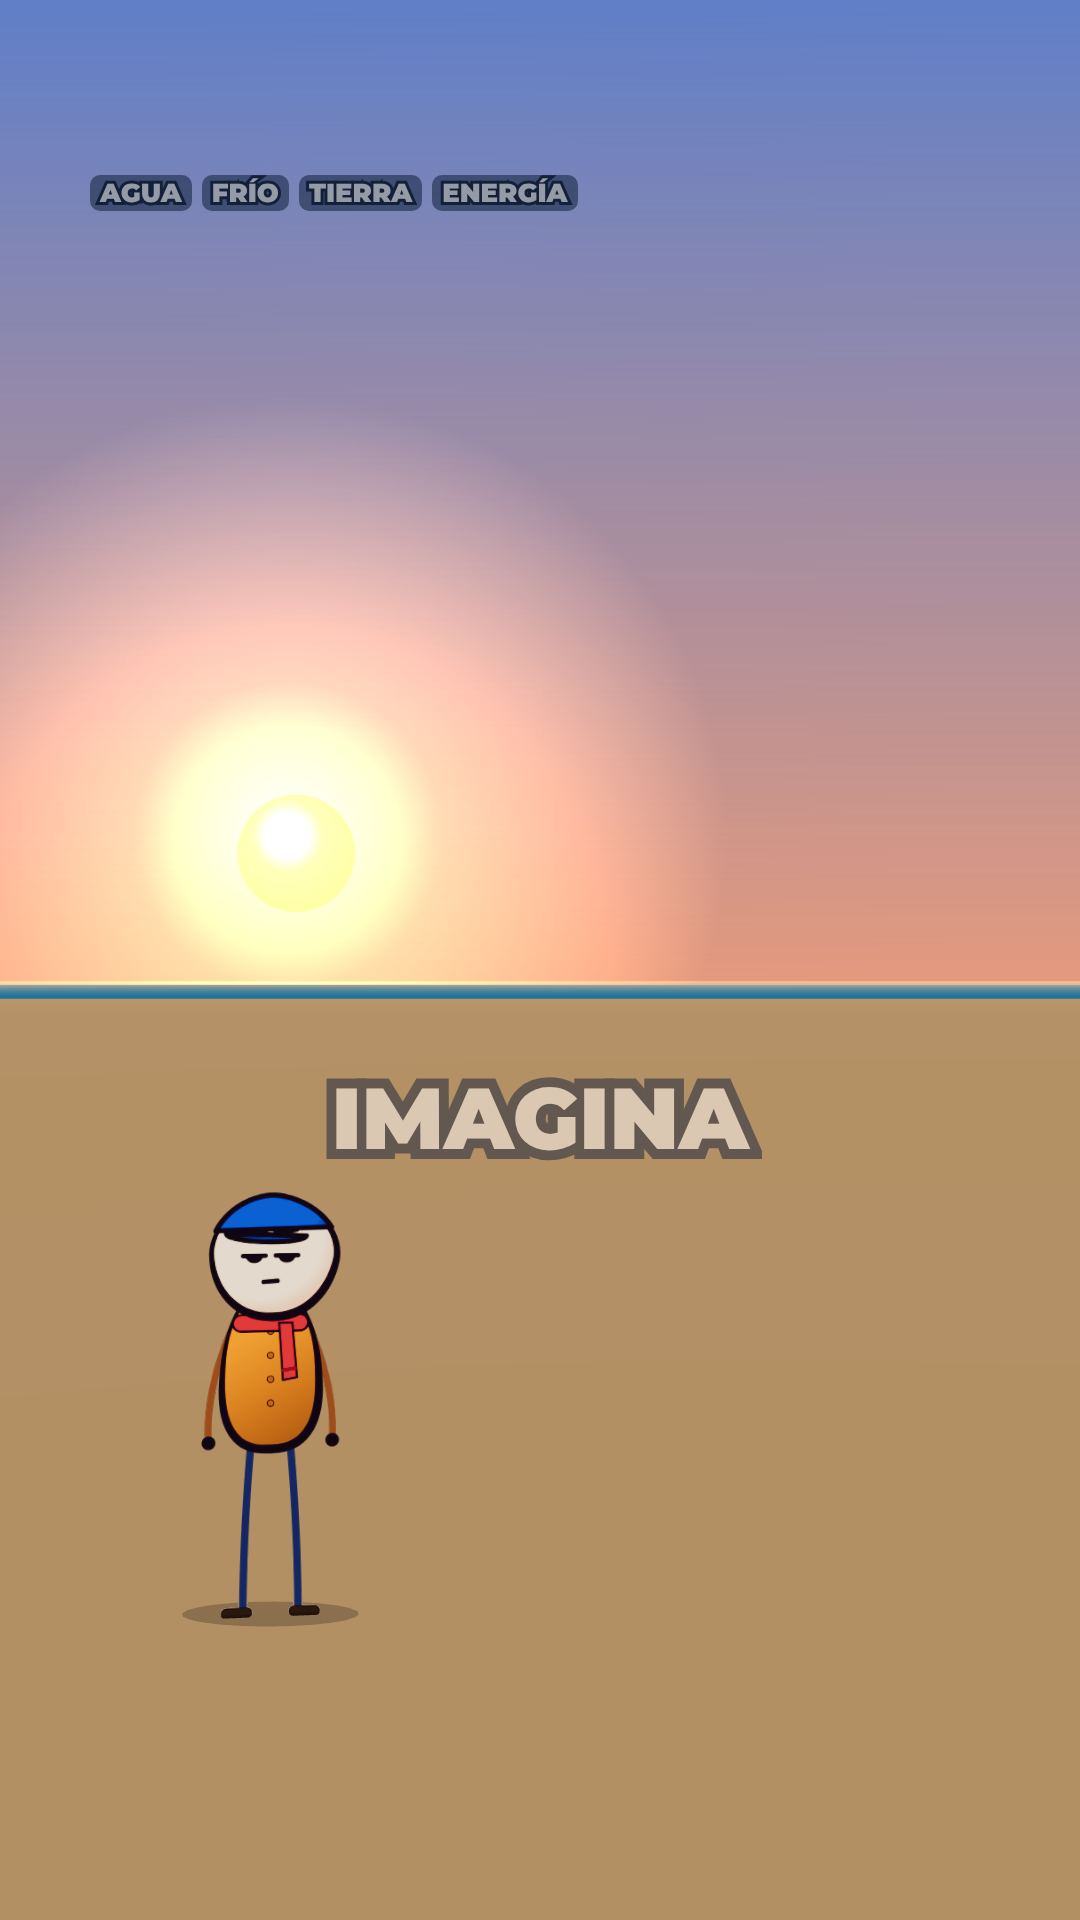
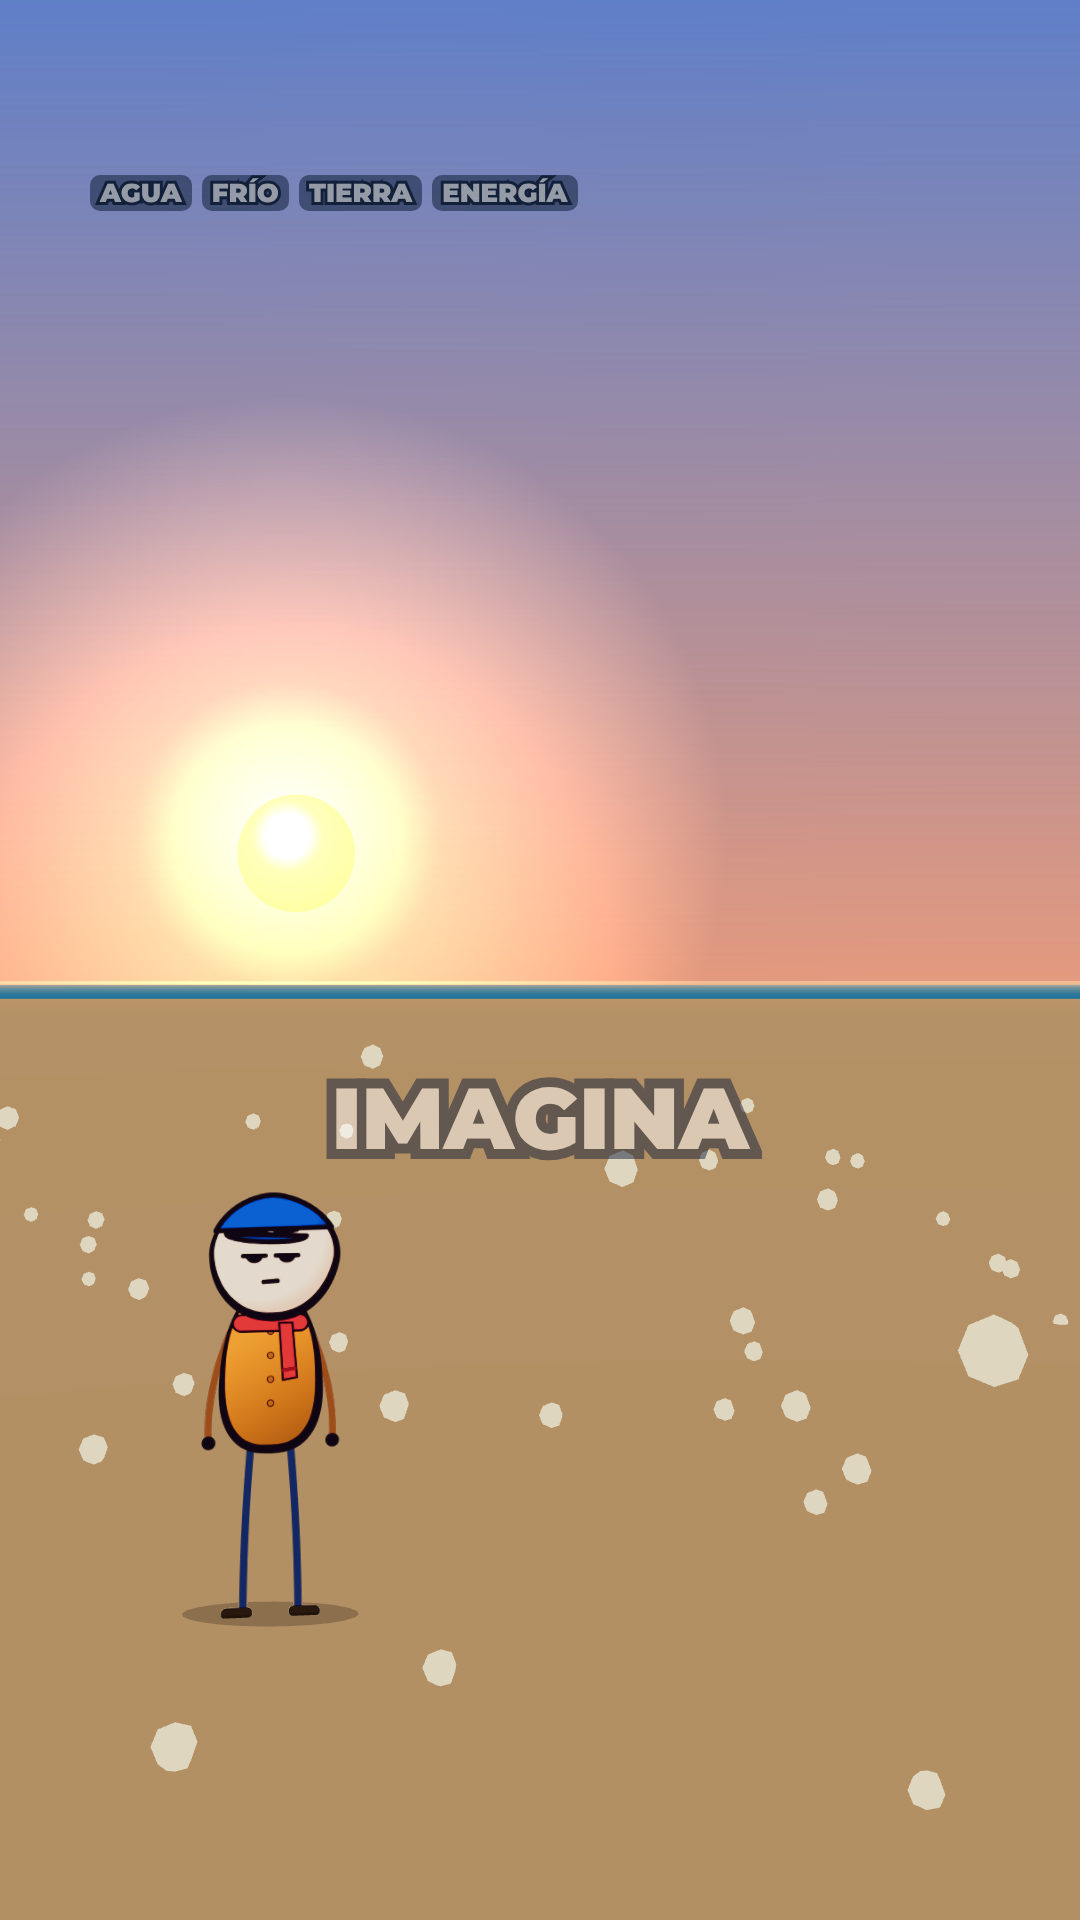
dubai-desierto: blowing sand from frame 0
Claude-Session: https://claude.ai/code/session_01F2TMiqHjkL4xcRcZuEi5yT

diff --git a/videos/dubai-desierto/visuals3d.ts b/videos/dubai-desierto/visuals3d.ts
@@ -9,8 +9,9 @@ const DB_LABCAM = (w: World, u: number, d = 20) => w.look([2 - u, 5, d - u * 2],
 
 defineVisuals({
   // 1. (0 s) a piece of desert, nothing else; at "ciudad" the towers rise out of the sand
-  hook: { bg: '#5f7fc8', build(w) { const { C, cap } = dbDesert(w, 0, -1), wk = dbWorker(w, [0, 0, 17]);
-    return (t) => { const kc = w.K('ciudad'); C.pose(t, p3Ramp(t, kc, kc + 2.2)); wk.pose(w.camera, { expr: t < kc ? 'neutral' : 'shock', mode: 'stand' }); const u = dbU(w, t); w.look([1 + u, 2.2 + u * 3, 24 - u * 2], [0, 2.6 + u * 9, -60], 50); cap(t); }; } },
+  hook: { bg: '#5f7fc8', build(w) { const { C, cap } = dbDesert(w, 0, -1), wk = dbWorker(w, [0, 0, 17]), wind = w.add(p3Swarm(160, new THREE.SphereGeometry(0.022, 4, 3), new THREE.MeshBasicMaterial({ color: '#e6c48c' }))), R = p3Rnd(21), P = Array.from({ length: 160 }, () => [R(), R() * 1.6, 10 + R() * 12, 0.6 + R()]);
+    return (t) => { P.forEach(([ph, y, z, sp], i) => { const u = (ph + t * 0.35 * sp) % 1; wind.put(i, -9 + u * 18, y + Math.sin(u * 9 + ph * 6) * 0.25, z, 1); }); wind.done();   // blowing sand: something moves from frame 0
+      const kc = w.K('ciudad'); C.pose(t, p3Ramp(t, kc, kc + 2.2)); wk.pose(w.camera, { expr: t < kc ? 'neutral' : 'shock', mode: 'stand' }); const u = dbU(w, t); w.look([1 + u, 2.2 + u * 3, 24 - u * 2], [0, 2.6 + u * 9, -60], 50); cap(t); }; } },
   // 2. (9 s) no rivers, no lakes, almost no rain: the city fades back, three red crosses
   sin: { bg: '#5f7fc8', build(w) { const { C, cap } = dbDesert(w, 0, -1), a = dbLab3(w, '✗ RÍOS', DB.red, [0, 11, -10], 0.05), b = dbLab3(w, '✗ LAGOS', DB.red, [0, 8.5, -10], 0.05), c = dbLab3(w, '✗ LLUVIA', DB.red, [0, 6, -10], 0.05), wk = dbWorker(w, [0, 0, 12]);
     return (t) => { C.pose(t, 1 - p3Ramp(t, w.s.t0, w.s.t0 + 1)); a.pose(dbPop(t, w.K('rios'))); b.pose(dbPop(t, w.K('lagos'))); c.pose(dbPop(t, w.K('lluvia'))); wk.pose(w.camera, { expr: t < w.K('imposible') ? 'nervous' : 'pained', mode: 'stand' });

diff --git a/videos/dubai-desierto/storyboard.md b/videos/dubai-desierto/storyboard.md
@@ -4,29 +4,29 @@
 
 | panel | scene | t (s) | type | title | stat |
 |---|---|---|---|---|---|
-| 1 | hook | 5.73 | question | Imagina que… |  |
-| 2 | sin | 11.94 | question |  |  |
-| 3 | promesa | 16.22 | question |  |  |
-| 4 | plan | 22.92 | object | El plan |  |
-| 5 | agua | 30.36 | process | Pieza 1: el agua |  |
-| 6 | desal | 38.23 | process |  |  |
-| 7 | salida | 43.74 | process |  |  |
-| 8 | jebel | 48.61 | stat |  | 182 MILLONES |
-| 9 | grifo | 52.48 | object |  |  |
-| 10 | frio | 56.95 | process | Pieza 2: el frío |  |
-| 11 | ventanas | 61.58 | comparison |  |  |
-| 12 | tubos | 66.38 | process |  |  |
-| 13 | guinness | 71.34 | stat |  | RÉCORD |
-| 14 | ciudadac | 75.85 | object |  |  |
-| 15 | tierra | 80.71 | process | Pieza 3: la tierra |  |
-| 16 | granos | 87.27 | comparison |  |  |
-| 17 | importa | 92.56 | process |  |  |
-| 18 | isla | 99.05 | process |  | 94 MILLONES |
-| 19 | muro | 106.24 | question |  |  |
-| 20 | energia | 111.72 | process | Pieza 4: la energía |  |
-| 21 | solar | 118.05 | stat |  | 3.800 MW |
-| 22 | tablero | 126.95 | object | El plan completo |  |
-| 23 | precio | 134.19 | comparison |  |  |
-| 24 | apaga | 140.44 | question | ¿Y si se apaga? |  |
-| 25 | maquina | 146.49 | closing |  |  |
-| 26 | pregunta | 149.92 | closing | ¿Vivirías ahí? |  |
+| 1 | hook | 0 | question | Imagina que… |  |
+| 2 | sin |  | question |  |  |
+| 3 | promesa |  | question |  |  |
+| 4 | plan |  | object | El plan |  |
+| 5 | agua |  | process | Pieza 1: el agua |  |
+| 6 | desal |  | process |  |  |
+| 7 | salida |  | process |  |  |
+| 8 | jebel |  | stat |  | 182 MILLONES |
+| 9 | grifo |  | object |  |  |
+| 10 | frio |  | process | Pieza 2: el frío |  |
+| 11 | ventanas |  | comparison |  |  |
+| 12 | tubos |  | process |  |  |
+| 13 | guinness |  | stat |  | RÉCORD |
+| 14 | ciudadac |  | object |  |  |
+| 15 | tierra |  | process | Pieza 3: la tierra |  |
+| 16 | granos |  | comparison |  |  |
+| 17 | importa |  | process |  |  |
+| 18 | isla |  | process |  | 94 MILLONES |
+| 19 | muro |  | question |  |  |
+| 20 | energia |  | process | Pieza 4: la energía |  |
+| 21 | solar |  | stat |  | 3.800 MW |
+| 22 | tablero |  | object | El plan completo |  |
+| 23 | precio |  | comparison |  |  |
+| 24 | apaga |  | question | ¿Y si se apaga? |  |
+| 25 | maquina |  | closing |  |  |
+| 26 | pregunta |  | closing | ¿Vivirías ahí? |  |
